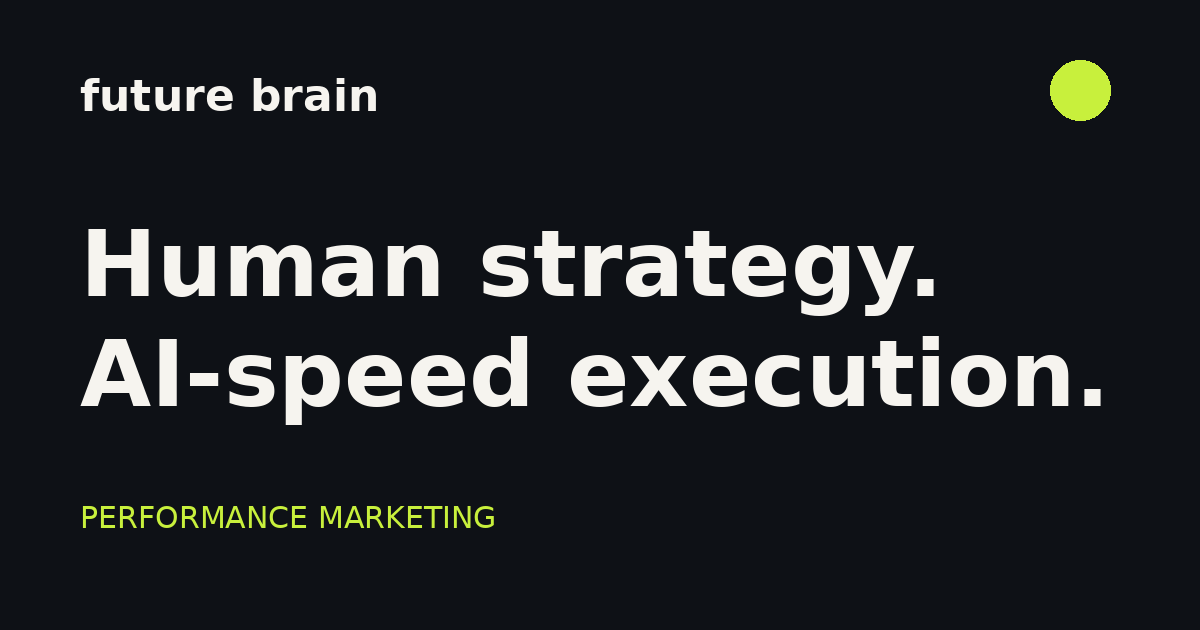
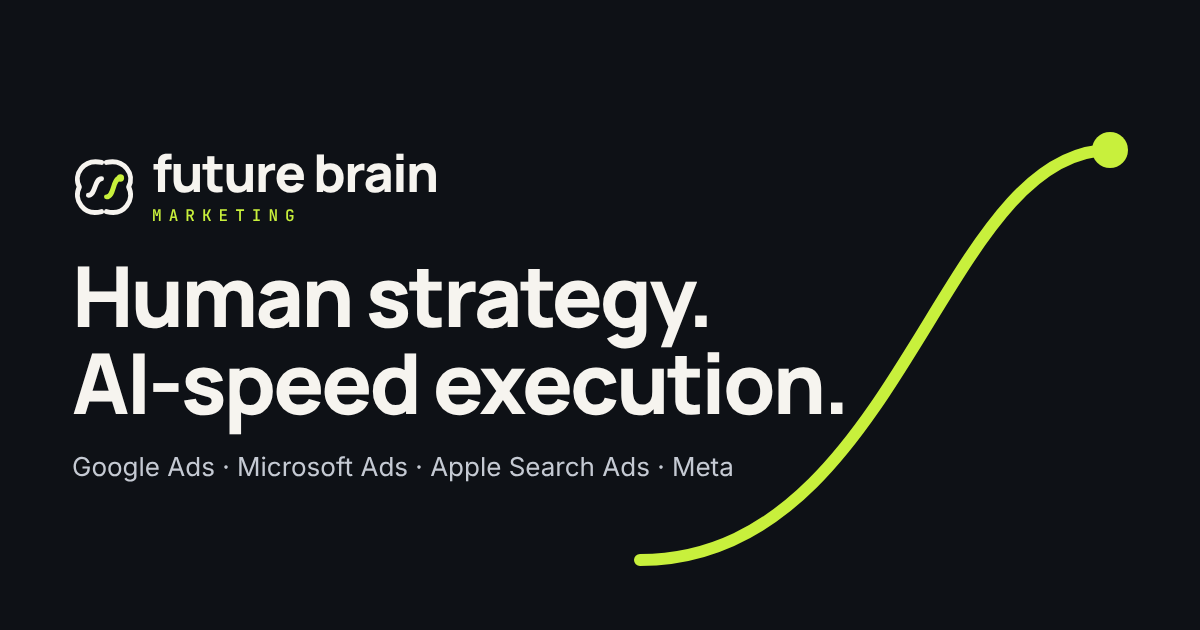
Add files via upload

diff --git a/index.html b/index.html
@@ -3,13 +3,13 @@
 <head>
 <meta charset="utf-8">
 <meta name="viewport" content="width=device-width, initial-scale=1">
-<title>Future Brain | Performance Marketing with AI-Speed Execution</title>
+<title>Future Brain Marketing | Human Strategy, AI-Speed Execution</title>
 <meta name="description" content="Google Ads, Microsoft Ads, Apple Search Ads and Meta campaigns run by one senior specialist with an AI-assisted workflow. No contracts. Free account audit.">
 <meta name="robots" content="index, follow">
 <link rel="canonical" href="https://futurebrainmarketing.com/">
 <meta property="og:type" content="website">
-<meta property="og:site_name" content="Future Brain">
-<meta property="og:title" content="Future Brain | Performance Marketing with AI-Speed Execution">
+<meta property="og:site_name" content="Future Brain Marketing">
+<meta property="og:title" content="Future Brain Marketing | Human Strategy, AI-Speed Execution">
 <meta property="og:description" content="Google Ads, Microsoft Ads, Apple Search Ads and Meta campaigns run by one senior specialist with an AI-assisted workflow. No contracts. Free account audit.">
 <meta property="og:url" content="https://futurebrainmarketing.com/">
 <meta property="og:image" content="https://futurebrainmarketing.com/assets/og.png">
@@ -40,7 +40,6 @@ html{scroll-behavior:smooth;scroll-padding-top:90px}
 body{background:#0E1116;font-family:'Inter',sans-serif}
 img{max-width:100%}
 input:focus,select:focus,a:focus-visible,button:focus-visible{outline:2px solid #C8F03C;outline-offset:2px}
-.fb-mobile-cta{display:none}
 .fb-cookie{position:fixed;left:16px;bottom:16px;z-index:30;max-width:380px;box-sizing:border-box;background:#151921;border:1px solid #3A404B;border-radius:16px;padding:16px 18px;color:#F6F4EF;font-size:14px;line-height:1.5;box-shadow:0 12px 32px rgba(0,0,0,.5)}
 .fb-cookie[hidden]{display:none}
 .fb-cookie p{margin:0 0 12px;color:#C5CAD3}
@@ -50,21 +49,18 @@ input:focus,select:focus,a:focus-visible,button:focus-visible{outline:2px solid 
 .fb-cookie .fb-no{background:transparent;color:#F6F4EF;border:1px solid #6B7280}
 @media (max-width:760px){
  .fb-navlink,.fb-navcta{display:none}
+ .fb-wm{font-size:20px !important}
  .fb-cookie{left:12px;right:12px;bottom:12px;max-width:none}
- body.fb-cookie-open .fb-mobile-cta{display:none}
  [style*="padding: 96px 32px"]{padding:64px 20px !important}
  [style*="padding: 96px 32px 88px"]{padding:44px 20px 56px !important}
  [style*="padding: 88px 32px"],[style*="padding: 80px 32px"]{padding:56px 20px !important}
  [style*="padding: 36px 32px"],[style*="padding: 20px 32px"],[style*="padding: 0 32px 28px"]{padding-left:20px !important;padding-right:20px !important}
  article[style*="padding: 36px"]{padding:24px !important;gap:28px !important}
  form[style*="padding: 32px"]{padding:24px !important}
- .fb-mobile-cta{display:block;position:fixed;left:12px;right:12px;bottom:12px;z-index:20;text-align:center;text-decoration:none;background:#C8F03C;color:#0E1116;font-weight:500;padding:16px 20px;border-radius:999px;box-shadow:0 8px 24px rgba(0,0,0,.45)}
- .fb-mobile-cta:hover{color:#0E1116}
- footer{padding-bottom:96px !important}
 }
 @media (prefers-reduced-motion:reduce){html{scroll-behavior:auto}}
 </style>
-<script type="application/ld+json">[{"@context": "https://schema.org", "@type": "ProfessionalService", "name": "Future Brain", "url": "https://futurebrainmarketing.com/", "email": "info@futurebrainmarketing.com", "image": "https://futurebrainmarketing.com/assets/og.png", "logo": "https://futurebrainmarketing.com/favicon.svg", "description": "Performance marketing practice: Google Ads, Microsoft Ads, Apple Search Ads and Meta campaigns run by a senior specialist with an AI-assisted workflow.", "areaServed": "Worldwide", "address": {"@type": "PostalAddress", "addressCountry": "GR"}, "knowsAbout": ["Google Ads", "Microsoft Advertising", "Apple Search Ads", "Meta Ads", "Performance marketing", "Travel marketing"]}, {"@context": "https://schema.org", "@type": "FAQPage", "mainEntity": [{"@type": "Question", "name": "Is there a minimum ad budget?", "acceptedAnswer": {"@type": "Answer", "text": "No. There is no minimum budget. If paid ads do not make sense at your spend level, the audit will say so."}}, {"@type": "Question", "name": "Do I have to sign a contract?", "acceptedAnswer": {"@type": "Answer", "text": "No contracts. Work runs month to month and you can stop at any time."}}, {"@type": "Question", "name": "Who runs my campaigns?", "acceptedAnswer": {"@type": "Answer", "text": "I do. There are no account managers and nothing is handed to juniors."}}, {"@type": "Question", "name": "What access do you need?", "acceptedAnswer": {"@type": "Answer", "text": "Read-only access to your ad accounts and analytics for the audit. Nothing changes in your account until you say so."}}, {"@type": "Question", "name": "How will I know what is happening?", "acceptedAnswer": {"@type": "Answer", "text": "A plain-language report on a fixed schedule: what changed, why, and what comes next."}}, {"@type": "Question", "name": "Which platforms do you cover?", "acceptedAnswer": {"@type": "Answer", "text": "Google Ads, Microsoft Ads, Apple Search Ads and Meta."}}]}]</script>
+<script type="application/ld+json">[{"@context": "https://schema.org", "@type": "ProfessionalService", "name": "Future Brain Marketing", "alternateName": "Future Brain", "url": "https://futurebrainmarketing.com/", "email": "info@futurebrainmarketing.com", "image": "https://futurebrainmarketing.com/assets/og.png", "logo": "https://futurebrainmarketing.com/favicon.svg", "description": "Future Brain Marketing is a performance marketing practice: Google Ads, Microsoft Ads, Apple Search Ads and Meta campaigns run by a senior specialist with an AI-assisted workflow.", "areaServed": "Worldwide", "address": {"@type": "PostalAddress", "addressCountry": "GR"}, "knowsAbout": ["Google Ads", "Microsoft Advertising", "Apple Search Ads", "Meta Ads", "Performance marketing", "Travel marketing"]}, {"@context": "https://schema.org", "@type": "FAQPage", "mainEntity": [{"@type": "Question", "name": "Is there a minimum ad budget?", "acceptedAnswer": {"@type": "Answer", "text": "No. There is no minimum budget. If paid ads do not make sense at your spend level, the audit will say so."}}, {"@type": "Question", "name": "Do I have to sign a contract?", "acceptedAnswer": {"@type": "Answer", "text": "No contracts. Work runs month to month and you can stop at any time."}}, {"@type": "Question", "name": "Who runs my campaigns?", "acceptedAnswer": {"@type": "Answer", "text": "I do. There are no account managers and nothing is handed to juniors."}}, {"@type": "Question", "name": "What access do you need?", "acceptedAnswer": {"@type": "Answer", "text": "Read-only access to your ad accounts and analytics for the audit. Nothing changes in your account until you say so."}}, {"@type": "Question", "name": "How will I know what is happening?", "acceptedAnswer": {"@type": "Answer", "text": "A plain-language report on a fixed schedule: what changed, why, and what comes next."}}, {"@type": "Question", "name": "Which platforms do you cover?", "acceptedAnswer": {"@type": "Answer", "text": "Google Ads, Microsoft Ads, Apple Search Ads and Meta."}}]}]</script>
 </head>
 <body>
 <div style="background: #0E1116; color: #F6F4EF; font-family: 'Inter', sans-serif; font-size: 17px; line-height: 1.55">
@@ -79,7 +75,7 @@ input:focus,select:focus,a:focus-visible,button:focus-visible{outline:2px solid 
 <path d="M106 124C126 124 120 78 140 78" stroke="#C8F03C"></path>
 <circle cx="140" cy="78" r="9" fill="#C8F03C" stroke="none"></circle>
 </svg>
-<span style="font-family: 'Manrope', sans-serif; font-size: 24px; font-weight: 800; letter-spacing: -0.03em">future brain</span>
+<span class="fb-wm" style="font-family: 'Manrope', sans-serif; font-size: 24px; font-weight: 800; letter-spacing: -0.03em; white-space: nowrap">future brain <span style="font-weight: 500; color: #C8F03C">marketing</span></span>
 </a>
 <nav aria-label="Main" style="display: flex; align-items: center; flex-wrap: wrap; gap: 8px 28px; font-size: 15px">
 <a class="fb-navlink" href="#services" style="text-decoration: none; padding: 12px 0">Services</a>
@@ -179,7 +175,7 @@ input:focus,select:focus,a:focus-visible,button:focus-visible{outline:2px solid 
 </section>
 
 <section id="about" style="max-width: 1200px; margin: 0 auto; padding: 96px 32px; display: flex; flex-wrap: wrap; align-items: center; gap: 48px">
-<img src="assets/tim.jpg" width="400" height="400" loading="lazy" alt="Portrait of Tim, founder of Future Brain" style="flex: 0 1 300px; min-width: 220px; aspect-ratio: 1 / 1; object-fit: cover; border-radius: 20px; border: 1px solid #262B33">
+<img src="assets/tim.jpg" width="400" height="400" loading="lazy" alt="Portrait of Tim, founder of Future Brain Marketing" style="flex: 0 1 300px; min-width: 220px; aspect-ratio: 1 / 1; object-fit: cover; border-radius: 20px; border: 1px solid #262B33">
 <div style="flex: 1 1 480px; display: flex; flex-direction: column; gap: 18px">
 <div style="font-family: 'JetBrains Mono', monospace; font-size: 13px; letter-spacing: 0.2em; text-transform: uppercase; color: #9AA3AF">About</div>
 <h2 style="margin: 0; font-family: 'Manrope', sans-serif; font-weight: 800; font-size: clamp(2rem, 3.4vw, 2.9rem); line-height: 1.08; letter-spacing: -0.03em">Hi, I'm Tim.</h2>
@@ -290,7 +286,7 @@ input:focus,select:focus,a:focus-visible,button:focus-visible{outline:2px solid 
 <section style="border-top: 1px solid #262B33">
 <div style="max-width: 1200px; margin: 0 auto; padding: 36px 32px; display: flex; flex-wrap: wrap; align-items: center; justify-content: space-between; gap: 16px 40px">
 <div style="flex: 1 1 320px; display: flex; flex-direction: column; gap: 4px">
-<div style="font-family: 'Manrope', sans-serif; font-size: 18px; font-weight: 700">The Future Brain newsletter</div>
+<div style="font-family: 'Manrope', sans-serif; font-size: 18px; font-weight: 700">The Future Brain Marketing newsletter</div>
 <p style="margin: 0; font-size: 15px; color: #9AA3AF">Occasional notes on travel marketing, PPC and search. No spam, unsubscribe any time.</p>
 </div>
 <form class="fb-news" style="flex: 1 1 360px; display: flex; flex-wrap: wrap; align-items: center; gap: 10px">
@@ -302,12 +298,11 @@ input:focus,select:focus,a:focus-visible,button:focus-visible{outline:2px solid 
 </section>
 
 <footer style="max-width: 1200px; margin: 0 auto; padding: 36px 32px; display: flex; flex-wrap: wrap; align-items: center; justify-content: space-between; gap: 12px 32px; font-size: 14px; color: #9AA3AF">
-<div>© 2026 Future Brain</div>
+<div>© 2026 Future Brain Marketing</div>
 <div style="display: flex; gap: 24px"><a href="privacy.html" style="color: #C5CAD3; padding: 12px 0">Privacy</a><a href="mailto:info@futurebrainmarketing.com" style="color: #C5CAD3; padding: 12px 0">Contact</a></div>
 </footer>
 
 </div>
-<a class="fb-mobile-cta" href="#audit">Get a free audit</a>
 <div id="fb-cookie" class="fb-cookie" role="dialog" aria-label="Cookie choice" hidden>
 <p>This site uses cookies only to measure visits, and only if you accept. <a href="privacy.html">Privacy</a></p>
 <div><button type="button" class="fb-no">Decline</button><button type="button" class="fb-yes">Accept</button></div>
@@ -344,7 +339,7 @@ input:focus,select:focus,a:focus-visible,button:focus-visible{outline:2px solid 
         .then(function(){ msg.textContent = 'Thanks. Check your inbox to confirm.'; nf.reset(); })
         .catch(function(){ msg.textContent = 'Something went wrong. Please email newsletter@futurebrainmarketing.com.'; });
     } else {
-      window.location.href = 'mailto:newsletter@futurebrainmarketing.com?subject=' + encodeURIComponent('Subscribe me to the newsletter') + '&body=' + encodeURIComponent('Please add ' + email + ' to the Future Brain newsletter.');
+      window.location.href = 'mailto:newsletter@futurebrainmarketing.com?subject=' + encodeURIComponent('Subscribe me to the newsletter') + '&body=' + encodeURIComponent('Please add ' + email + ' to the Future Brain Marketing newsletter.');
       msg.textContent = 'Your email app should open. Send the message to subscribe.';
     }
   }); });

diff --git a/travel.html b/travel.html
@@ -3,13 +3,13 @@
 <head>
 <meta charset="utf-8">
 <meta name="viewport" content="width=device-width, initial-scale=1">
-<title>Paid Ads for Travel and Hospitality Businesses | Future Brain</title>
+<title>Paid Ads for Travel and Hospitality | Future Brain Marketing</title>
 <meta name="description" content="Paid acquisition for ferry operators, booking platforms, tours, hotels and rentals. Season-aware Google, Microsoft, Meta and Apple campaigns. Free pre-season audit.">
 <meta name="robots" content="index, follow">
 <link rel="canonical" href="https://futurebrainmarketing.com/travel.html">
 <meta property="og:type" content="website">
-<meta property="og:site_name" content="Future Brain">
-<meta property="og:title" content="Paid Ads for Travel and Hospitality Businesses | Future Brain">
+<meta property="og:site_name" content="Future Brain Marketing">
+<meta property="og:title" content="Paid Ads for Travel and Hospitality | Future Brain Marketing">
 <meta property="og:description" content="Paid acquisition for ferry operators, booking platforms, tours, hotels and rentals. Season-aware Google, Microsoft, Meta and Apple campaigns. Free pre-season audit.">
 <meta property="og:url" content="https://futurebrainmarketing.com/travel.html">
 <meta property="og:image" content="https://futurebrainmarketing.com/assets/og.png">
@@ -31,7 +31,6 @@ html{scroll-behavior:smooth;scroll-padding-top:90px}
 body{background:#0E1116;font-family:'Inter',sans-serif}
 img{max-width:100%}
 input:focus,select:focus,a:focus-visible,button:focus-visible{outline:2px solid #C8F03C;outline-offset:2px}
-.fb-mobile-cta{display:none}
 .fb-cookie{position:fixed;left:16px;bottom:16px;z-index:30;max-width:380px;box-sizing:border-box;background:#151921;border:1px solid #3A404B;border-radius:16px;padding:16px 18px;color:#F6F4EF;font-size:14px;line-height:1.5;box-shadow:0 12px 32px rgba(0,0,0,.5)}
 .fb-cookie[hidden]{display:none}
 .fb-cookie p{margin:0 0 12px;color:#C5CAD3}
@@ -41,21 +40,18 @@ input:focus,select:focus,a:focus-visible,button:focus-visible{outline:2px solid 
 .fb-cookie .fb-no{background:transparent;color:#F6F4EF;border:1px solid #6B7280}
 @media (max-width:760px){
  .fb-navlink,.fb-navcta{display:none}
+ .fb-wm{font-size:20px !important}
  .fb-cookie{left:12px;right:12px;bottom:12px;max-width:none}
- body.fb-cookie-open .fb-mobile-cta{display:none}
  [style*="padding: 96px 32px"]{padding:64px 20px !important}
  [style*="padding: 96px 32px 88px"]{padding:44px 20px 56px !important}
  [style*="padding: 88px 32px"],[style*="padding: 80px 32px"]{padding:56px 20px !important}
  [style*="padding: 36px 32px"],[style*="padding: 20px 32px"],[style*="padding: 0 32px 28px"]{padding-left:20px !important;padding-right:20px !important}
  article[style*="padding: 36px"]{padding:24px !important;gap:28px !important}
  form[style*="padding: 32px"]{padding:24px !important}
- .fb-mobile-cta{display:block;position:fixed;left:12px;right:12px;bottom:12px;z-index:20;text-align:center;text-decoration:none;background:#C8F03C;color:#0E1116;font-weight:500;padding:16px 20px;border-radius:999px;box-shadow:0 8px 24px rgba(0,0,0,.45)}
- .fb-mobile-cta:hover{color:#0E1116}
- footer{padding-bottom:96px !important}
 }
 @media (prefers-reduced-motion:reduce){html{scroll-behavior:auto}}
 </style>
-<script type="application/ld+json">{"@context": "https://schema.org", "@type": "ProfessionalService", "name": "Future Brain", "url": "https://futurebrainmarketing.com/", "email": "info@futurebrainmarketing.com", "image": "https://futurebrainmarketing.com/assets/og.png", "logo": "https://futurebrainmarketing.com/favicon.svg", "description": "Performance marketing practice: Google Ads, Microsoft Ads, Apple Search Ads and Meta campaigns run by a senior specialist with an AI-assisted workflow.", "areaServed": "Worldwide", "address": {"@type": "PostalAddress", "addressCountry": "GR"}, "knowsAbout": ["Google Ads", "Microsoft Advertising", "Apple Search Ads", "Meta Ads", "Performance marketing", "Travel marketing"]}</script>
+<script type="application/ld+json">{"@context": "https://schema.org", "@type": "ProfessionalService", "name": "Future Brain Marketing", "alternateName": "Future Brain", "url": "https://futurebrainmarketing.com/", "email": "info@futurebrainmarketing.com", "image": "https://futurebrainmarketing.com/assets/og.png", "logo": "https://futurebrainmarketing.com/favicon.svg", "description": "Future Brain Marketing is a performance marketing practice: Google Ads, Microsoft Ads, Apple Search Ads and Meta campaigns run by a senior specialist with an AI-assisted workflow.", "areaServed": "Worldwide", "address": {"@type": "PostalAddress", "addressCountry": "GR"}, "knowsAbout": ["Google Ads", "Microsoft Advertising", "Apple Search Ads", "Meta Ads", "Performance marketing", "Travel marketing"]}</script>
 </head>
 <body>
 <div style="background: #0E1116; color: #F6F4EF; font-family: 'Inter', sans-serif; font-size: 17px; line-height: 1.55">
@@ -70,7 +66,7 @@ input:focus,select:focus,a:focus-visible,button:focus-visible{outline:2px solid 
 <path d="M106 124C126 124 120 78 140 78" stroke="#C8F03C"></path>
 <circle cx="140" cy="78" r="9" fill="#C8F03C" stroke="none"></circle>
 </svg>
-<span style="font-family: 'Manrope', sans-serif; font-size: 24px; font-weight: 800; letter-spacing: -0.03em">future brain</span>
+<span class="fb-wm" style="font-family: 'Manrope', sans-serif; font-size: 24px; font-weight: 800; letter-spacing: -0.03em; white-space: nowrap">future brain <span style="font-weight: 500; color: #C8F03C">marketing</span></span>
 </a>
 <nav aria-label="Main" style="display: flex; align-items: center; flex-wrap: wrap; gap: 8px 28px; font-size: 15px">
 <a class="fb-navlink" href="index.html#services" style="text-decoration: none; padding: 12px 0">Services</a>
@@ -195,7 +191,7 @@ input:focus,select:focus,a:focus-visible,button:focus-visible{outline:2px solid 
 <section style="border-top: 1px solid #262B33">
 <div style="max-width: 1200px; margin: 0 auto; padding: 36px 32px; display: flex; flex-wrap: wrap; align-items: center; justify-content: space-between; gap: 16px 40px">
 <div style="flex: 1 1 320px; display: flex; flex-direction: column; gap: 4px">
-<div style="font-family: 'Manrope', sans-serif; font-size: 18px; font-weight: 700">The Future Brain newsletter</div>
+<div style="font-family: 'Manrope', sans-serif; font-size: 18px; font-weight: 700">The Future Brain Marketing newsletter</div>
 <p style="margin: 0; font-size: 15px; color: #9AA3AF">Occasional notes on travel marketing, PPC and search. No spam, unsubscribe any time.</p>
 </div>
 <form class="fb-news" style="flex: 1 1 360px; display: flex; flex-wrap: wrap; align-items: center; gap: 10px">
@@ -207,12 +203,11 @@ input:focus,select:focus,a:focus-visible,button:focus-visible{outline:2px solid 
 </section>
 
 <footer style="max-width: 1200px; margin: 0 auto; padding: 36px 32px; display: flex; flex-wrap: wrap; align-items: center; justify-content: space-between; gap: 12px 32px; font-size: 14px; color: #9AA3AF">
-<div>© 2026 Future Brain</div>
+<div>© 2026 Future Brain Marketing</div>
 <div style="display: flex; gap: 24px"><a href="privacy.html" style="color: #C5CAD3; padding: 12px 0">Privacy</a><a href="mailto:info@futurebrainmarketing.com" style="color: #C5CAD3; padding: 12px 0">Contact</a></div>
 </footer>
 
 </div>
-<a class="fb-mobile-cta" href="#audit">Get a free audit</a>
 <div id="fb-cookie" class="fb-cookie" role="dialog" aria-label="Cookie choice" hidden>
 <p>This site uses cookies only to measure visits, and only if you accept. <a href="privacy.html">Privacy</a></p>
 <div><button type="button" class="fb-no">Decline</button><button type="button" class="fb-yes">Accept</button></div>
@@ -249,7 +244,7 @@ input:focus,select:focus,a:focus-visible,button:focus-visible{outline:2px solid 
         .then(function(){ msg.textContent = 'Thanks. Check your inbox to confirm.'; nf.reset(); })
         .catch(function(){ msg.textContent = 'Something went wrong. Please email newsletter@futurebrainmarketing.com.'; });
     } else {
-      window.location.href = 'mailto:newsletter@futurebrainmarketing.com?subject=' + encodeURIComponent('Subscribe me to the newsletter') + '&body=' + encodeURIComponent('Please add ' + email + ' to the Future Brain newsletter.');
+      window.location.href = 'mailto:newsletter@futurebrainmarketing.com?subject=' + encodeURIComponent('Subscribe me to the newsletter') + '&body=' + encodeURIComponent('Please add ' + email + ' to the Future Brain Marketing newsletter.');
       msg.textContent = 'Your email app should open. Send the message to subscribe.';
     }
   }); });

diff --git a/privacy.html b/privacy.html
@@ -3,8 +3,8 @@
 <head>
 <meta charset="utf-8">
 <meta name="viewport" content="width=device-width, initial-scale=1">
-<title>Privacy | Future Brain</title>
-<meta name="description" content="How Future Brain handles the details you send through this website.">
+<title>Privacy | Future Brain Marketing</title>
+<meta name="description" content="How Future Brain Marketing handles the details you send through this website.">
 <meta name="robots" content="index, follow">
 <link rel="canonical" href="https://futurebrainmarketing.com/privacy.html">
 <link rel="icon" href="favicon.svg" type="image/svg+xml">
@@ -19,7 +19,7 @@ body{margin:0;background:#0E1116;color:#F6F4EF;font-family:'Inter',sans-serif;fo
 </head>
 <body>
 <main>
-<a href="index.html">Back to Future Brain</a>
+<a href="index.html">Back to Future Brain Marketing</a>
 <h1>Privacy</h1>
 <p>This page explains what happens to the details you send through this website.</p>
 <h2>What is collected</h2>
